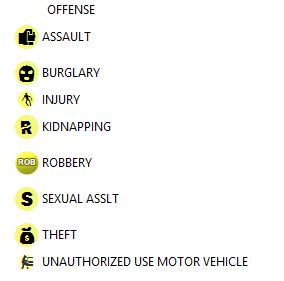
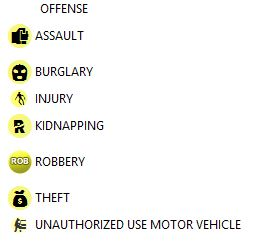
Remove sex offenders and crime address from map.

Changed region(s): [[0.0, 0.0857, 0.8759, 0.9714], [0.146, 0.0, 0.3504, 0.0571]]

diff --git a/config/config-data.js b/config/config-data.js
@@ -86,8 +86,7 @@ var appSetting = {
         "title":"<b>{OFFENSE}</b>",
         "content":"<b>OCCURRED ON: </b>{OCCURRED_O}<br>"+
         "<b>CASE ID: </b>{CASE}<br>"+
-        "<b>OFFENSE: </b>{OFFENSE}<br>"+
-        "<b>STREETADDR: </b>{STREETADDR}<br>"
+        "<b>OFFENSE: </b>{OFFENSE}<br>"
     }
     }
   },
